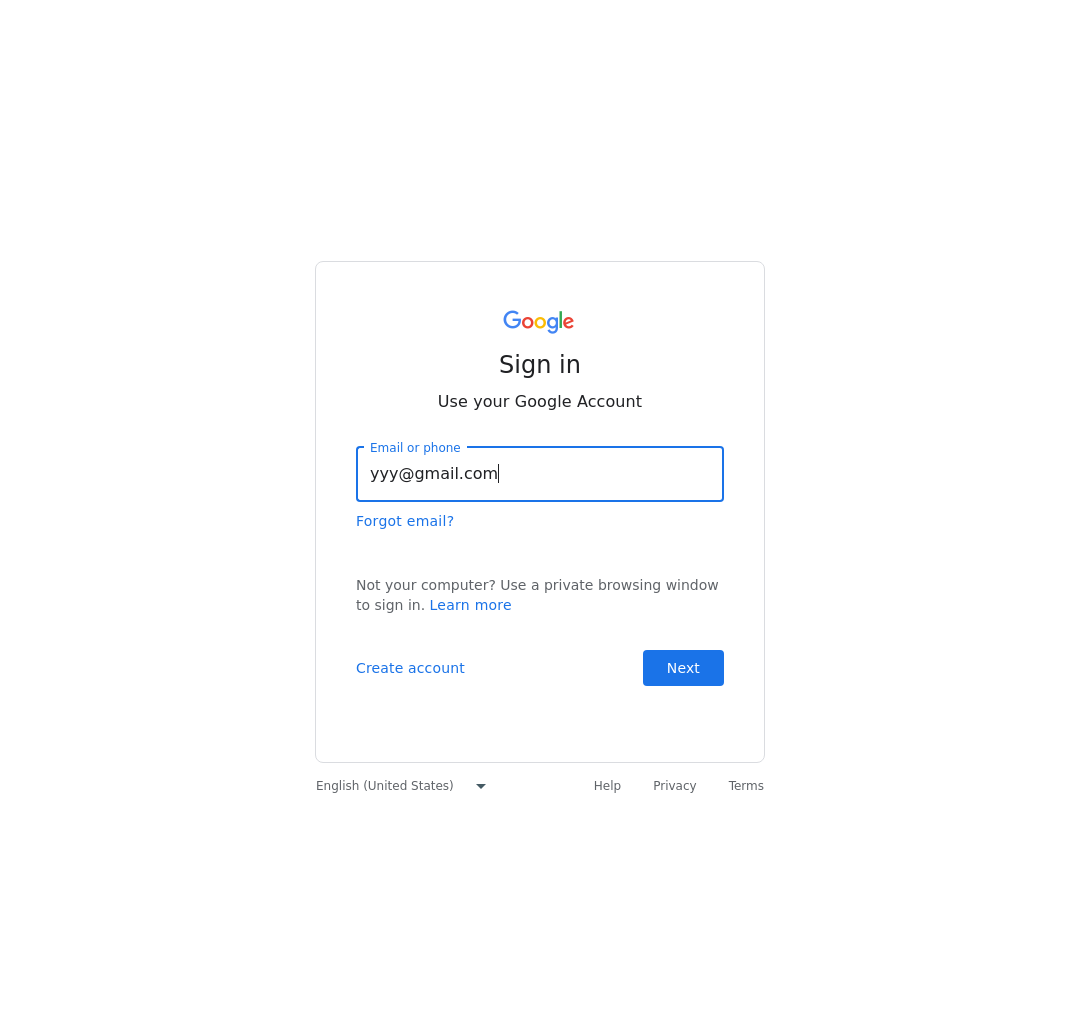
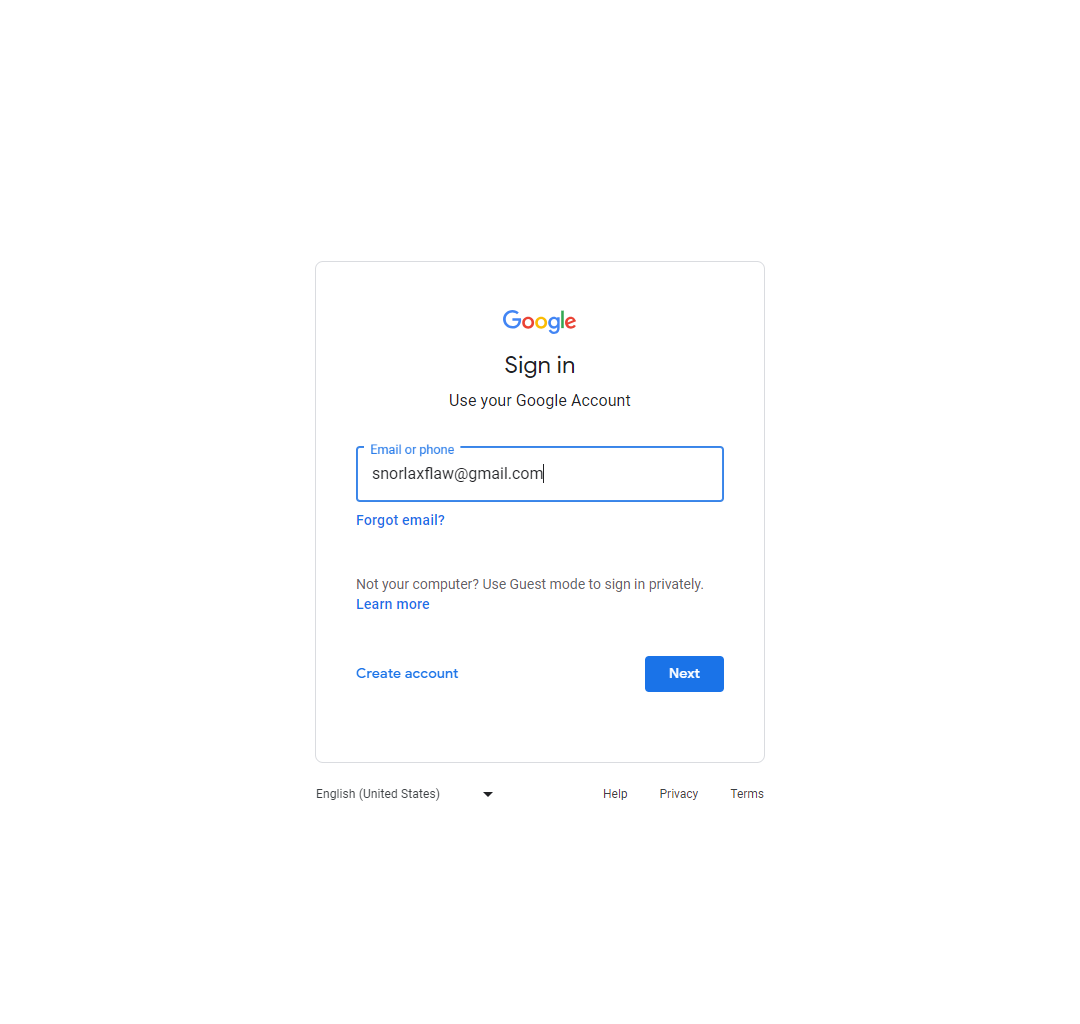
Update

diff --git a/bot-ubuntu/index.js b/bot-ubuntu/index.js
@@ -2,29 +2,28 @@ const puppeteer = require('puppeteer');
 require('dotenv').config();
 
 const BOT = async () => {
-    const browser = await puppeteer.launch({
-        defaultViewport: {width: 1920, height: 1080}
-      });
-    const page = await browser.newPage();
-    await page.goto('https://accounts.google.co.id/');
-    await page.setViewport({ width: 1080, height: 1024 });
-    await page.type('#identifierId', process.env.gmail);
-    await page.screenshot({path: 'screenshot.png'});
+  const browser = await puppeteer.launch({
+    defaultViewport: { width: 1080, height: 1024 }
+  });
+  const page = await browser.newPage();
+  await page.goto('https://accounts.google.co.id/');
+  await page.type('#identifierId', process.env.gmail);
+  await page.screenshot({ path: 'screenshot.png' });
 
-    // const searchResultSelector = '.search-box__link';
-    // await page.waitForSelector(searchResultSelector);
-    // await page.click(searchResultSelector);
+  // const searchResultSelector = '.search-box__link';
+  // await page.waitForSelector(searchResultSelector);
+  // await page.click(searchResultSelector);
 
-    // Locate the full title with a unique string
-    // const textSelector = await page.waitForSelector(
-    //     'text/Customize and automate'
-    // );
-    // const fullTitle = await textSelector?.evaluate(el => el.textContent);
+  // Locate the full title with a unique string
+  // const textSelector = await page.waitForSelector(
+  //     'text/Customize and automate'
+  // );
+  // const fullTitle = await textSelector?.evaluate(el => el.textContent);
 
-    // // Print the full title
-    // console.log('The title of this blog post is "%s".', fullTitle);
+  // // Print the full title
+  // console.log('The title of this blog post is "%s".', fullTitle);
 
-    // await browser.close();
+  // await browser.close();
 }
 
 BOT();

diff --git a/bot-ubuntu/bot-windows.js b/bot-ubuntu/bot-windows.js
@@ -1,0 +1,30 @@
+const puppeteer = require('puppeteer');
+require('dotenv').config();
+
+const BOT = async () => {
+    const browser = await puppeteer.launch({
+        defaultViewport: { width: 1080, height: 1024 },
+        headless: false
+    });
+    const page = await browser.newPage();
+    await page.goto('https://accounts.google.co.id/');
+    await page.type('#identifierId', process.env.gmail);
+    await page.screenshot({ path: 'screenshot.png' });
+
+    // const searchResultSelector = '.search-box__link';
+    // await page.waitForSelector(searchResultSelector);
+    // await page.click(searchResultSelector);
+
+    // Locate the full title with a unique string
+    // const textSelector = await page.waitForSelector(
+    //     'text/Customize and automate'
+    // );
+    // const fullTitle = await textSelector?.evaluate(el => el.textContent);
+
+    // // Print the full title
+    // console.log('The title of this blog post is "%s".', fullTitle);
+
+    // await browser.close();
+}
+
+BOT();
